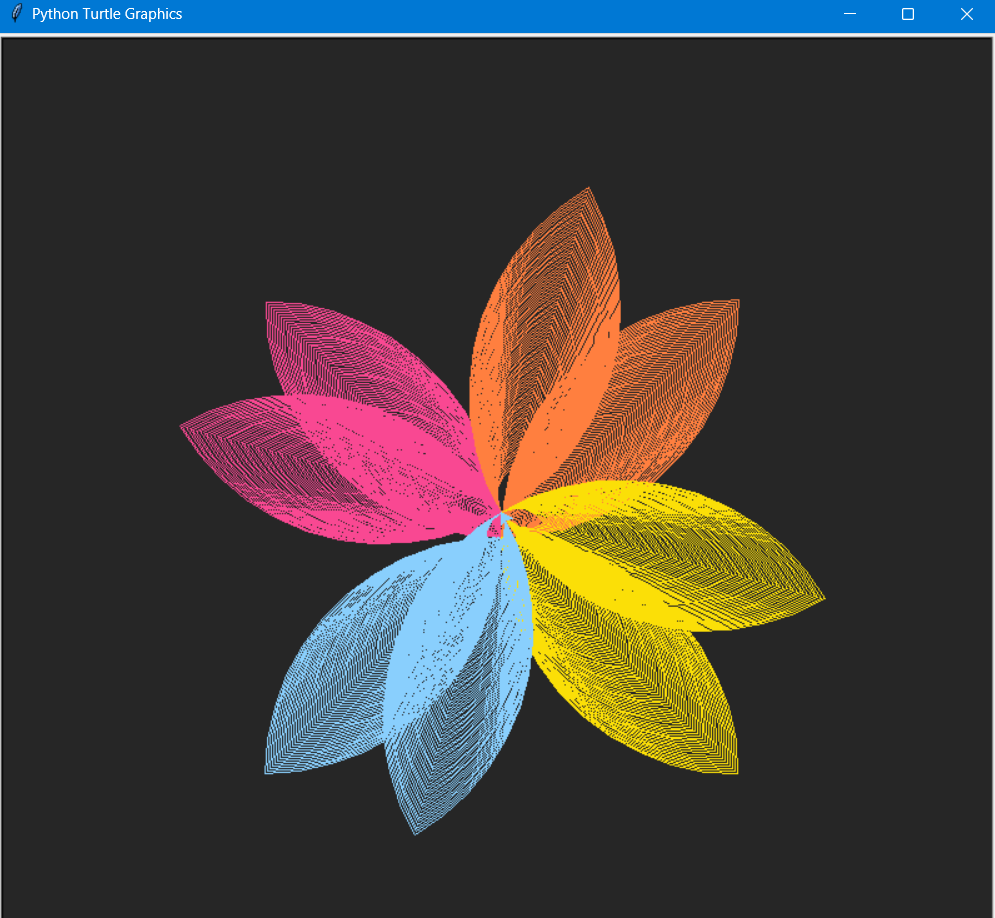
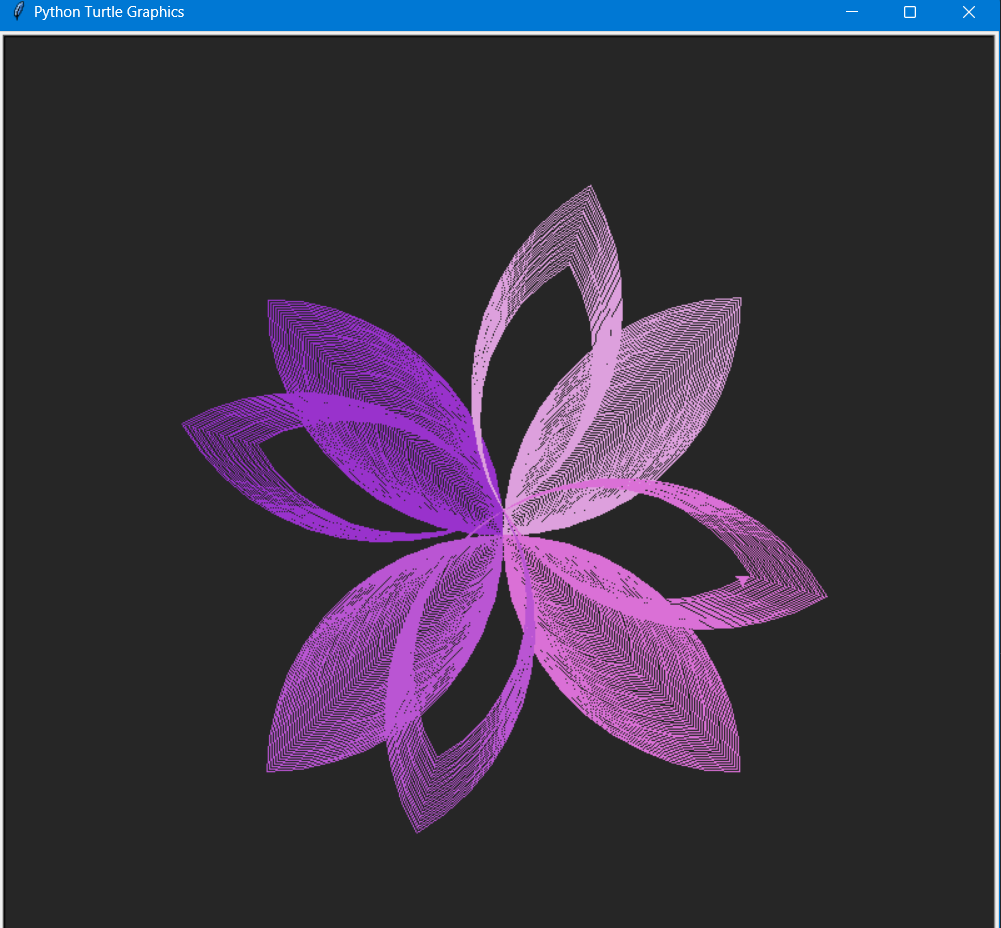
Changed

Changed region(s): [[0.1869, 0.183, 0.8412, 0.915], [0.0, 0.0, 1.0, 1.0]]

diff --git a/flower.py b/flower.py
@@ -8,7 +8,7 @@ tr.pencolor('#540d6e')
 tr.speed(0)
 tr.tracer(100)
 tr.pensize(1)
-col = ('#FF7F3F', '#FBDF07', '#89CFFD', '#F94892')
+col = ('#DDA0DD', '#DA70D6', '#BA55D3', '#9932CC')
 
 for i in range(3):
   for n in range(400):
